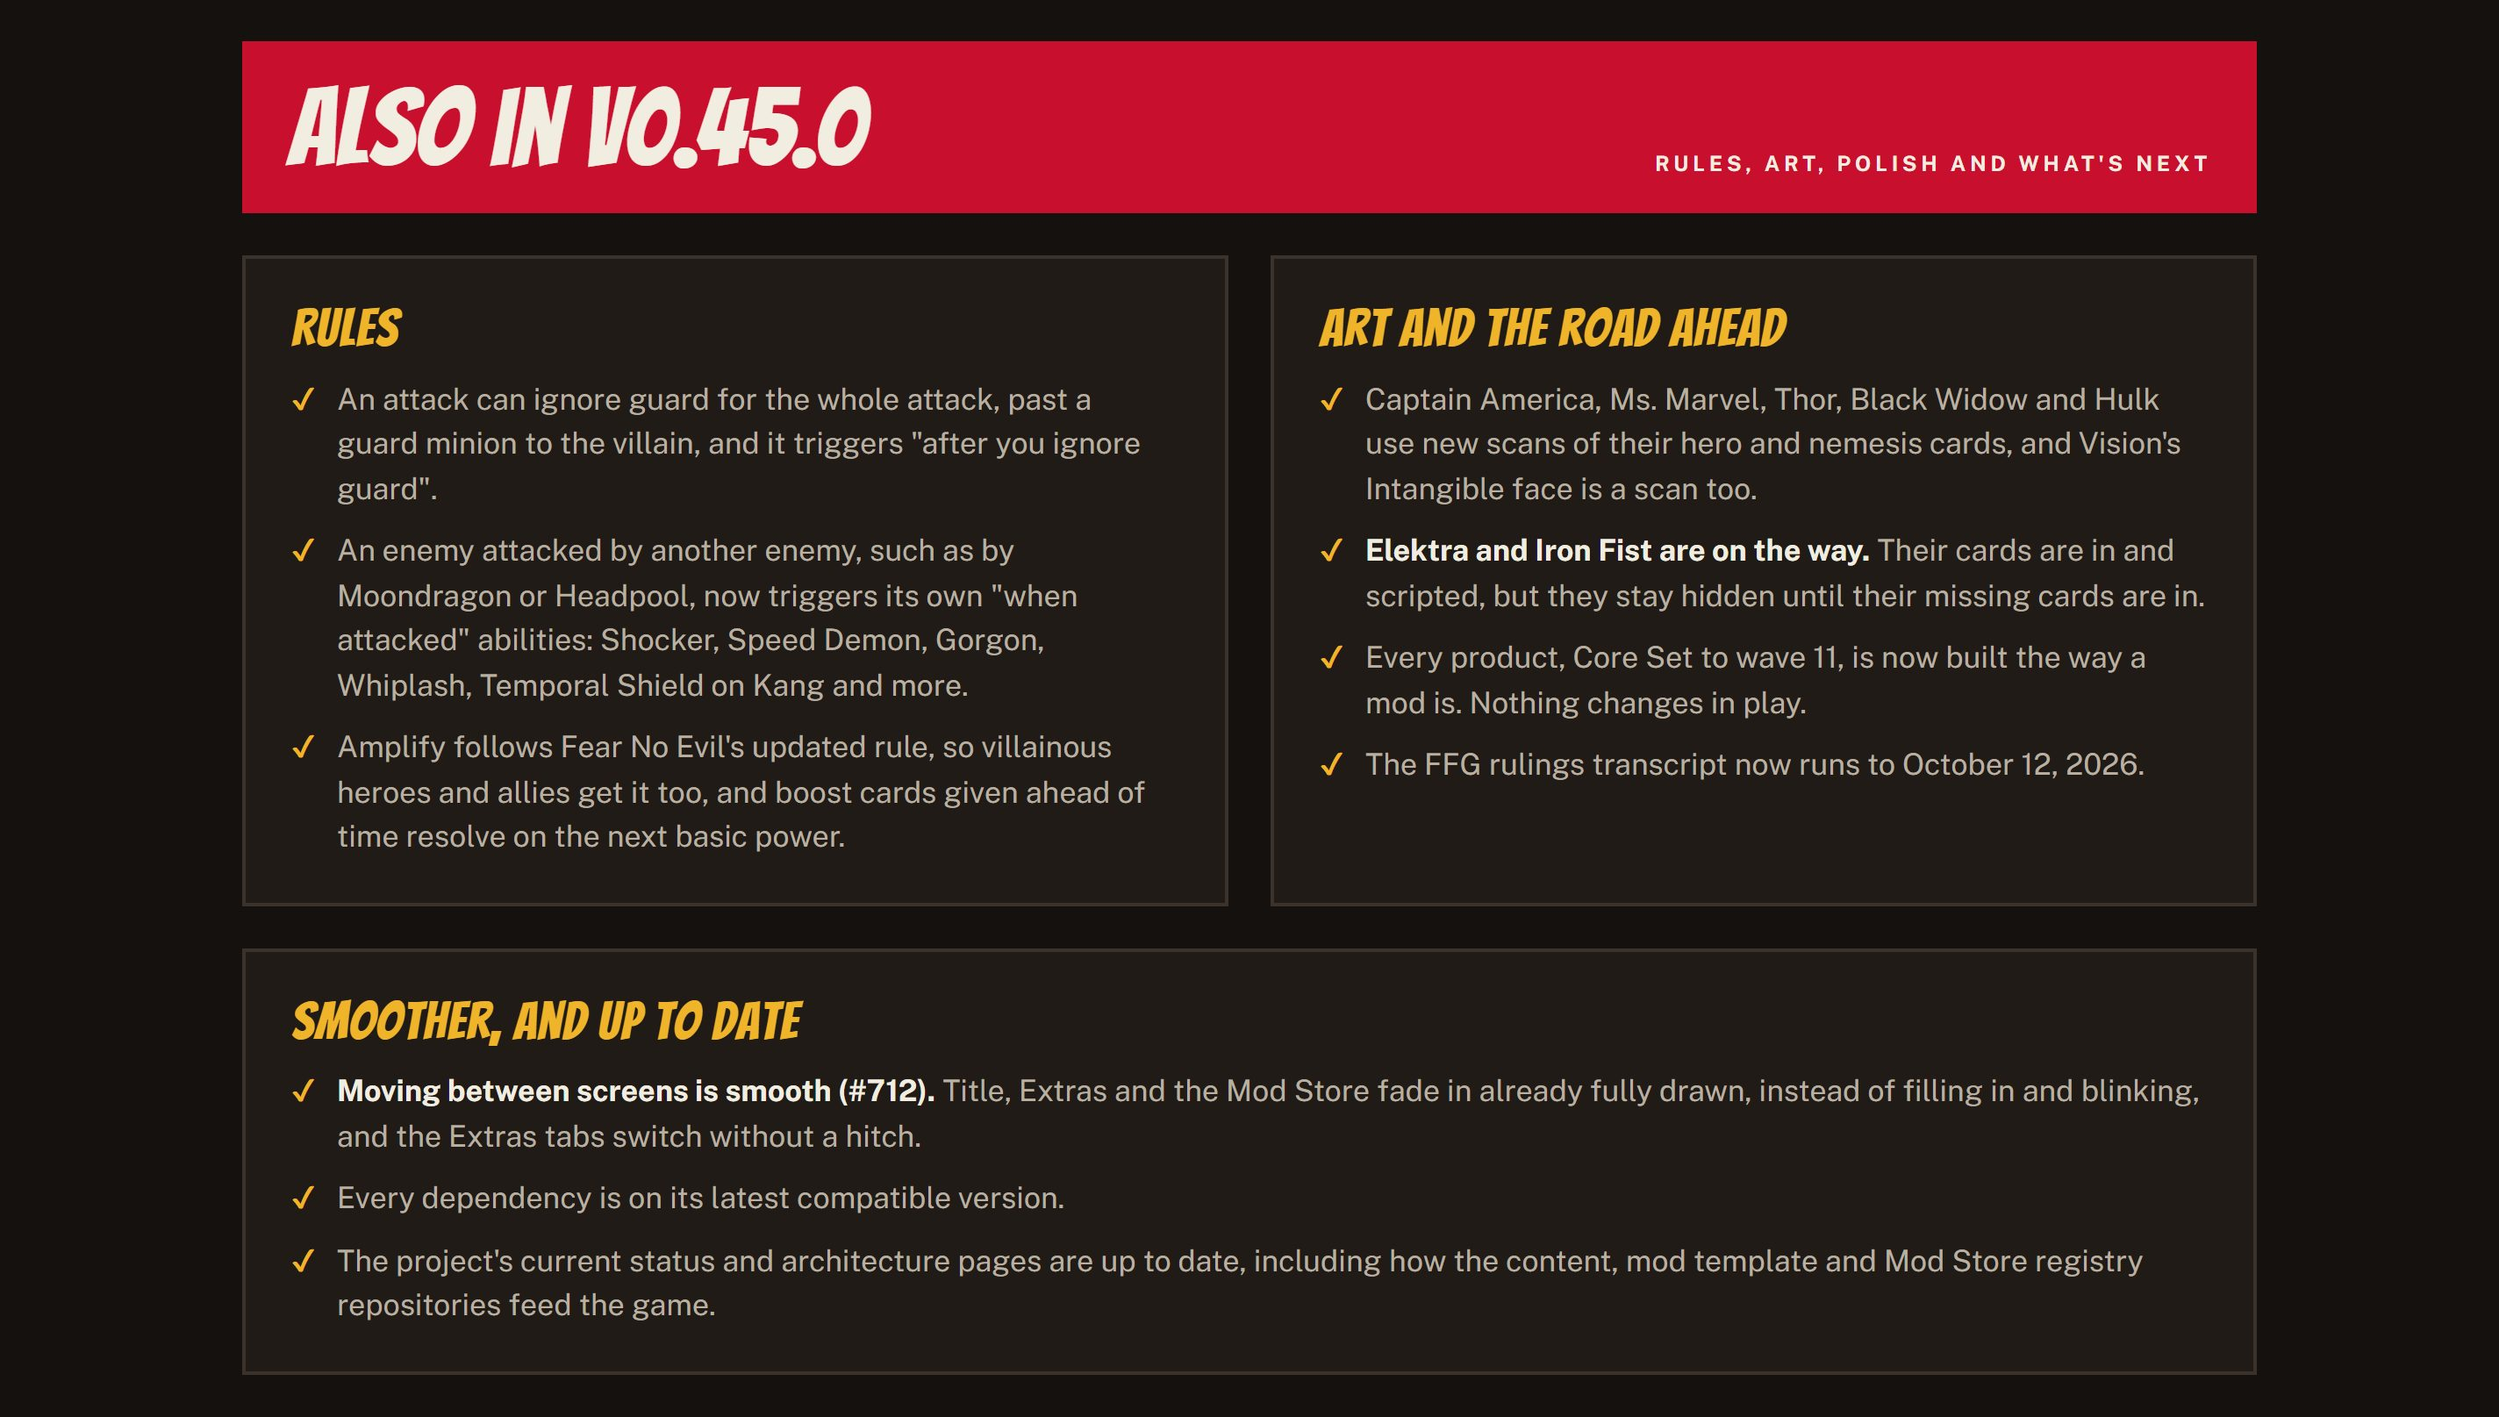
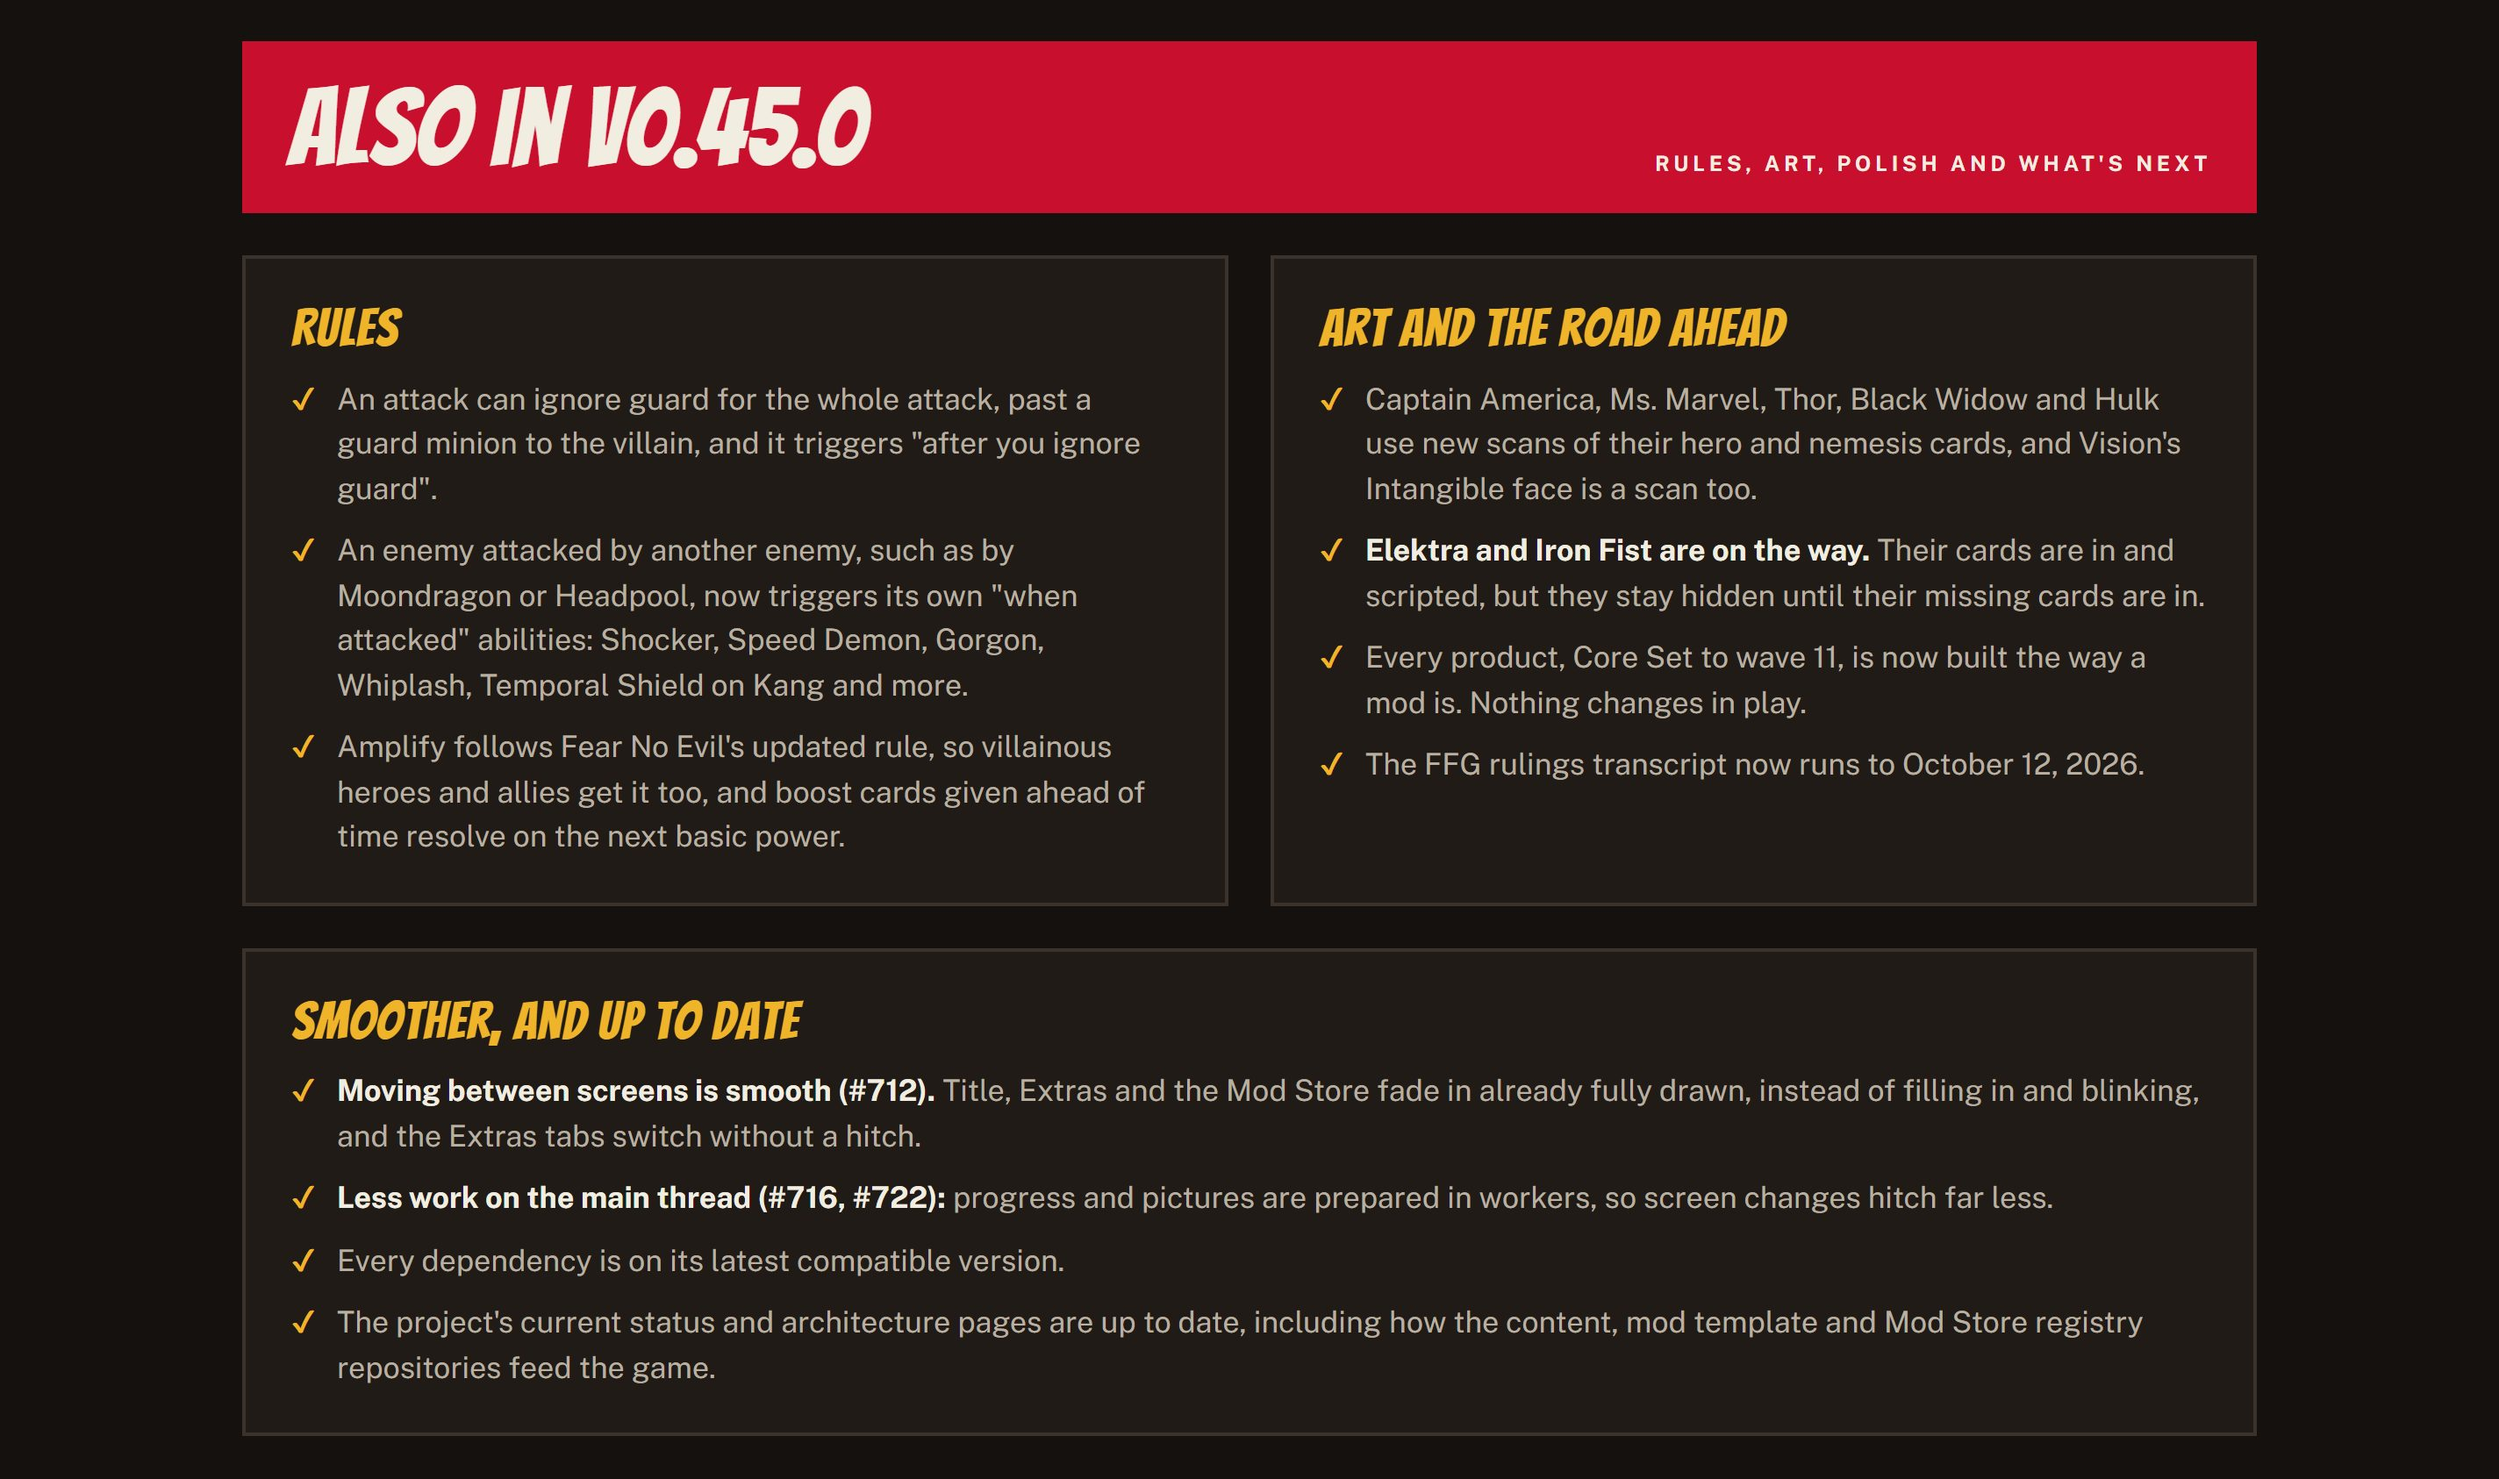
v0.45.0 report: less work on the main thread (#716, #722) in Smoother, and up to date

Changed region(s): [[0.0938, 0.0619, 0.9062, 0.9288]]

diff --git a/packages/client/public/releases/v0.45.0/index.html b/packages/client/public/releases/v0.45.0/index.html
@@ -1015,6 +1015,10 @@
             <b>Moving between screens is smooth (#712).</b> Title, Extras and the Mod Store fade in already fully drawn,
             instead of filling in and blinking, and the Extras tabs switch without a hitch.
           </li>
+          <li>
+            <b>Less work on the main thread (#716, #722):</b> progress and pictures are prepared in workers, so screen
+            changes hitch far less.
+          </li>
           <li>Every dependency is on its latest compatible version.</li>
           <li>
             The project's current status and architecture pages are up to date, including how the content, mod template
@@ -1082,7 +1086,7 @@
         </div>
         <div class="tile">
           <h4>Lines added</h4>
-          <div class="n c-green">96,405</div>
+          <div class="n c-green">96,410</div>
           <p>the Mod Store, the SDK, replays, the new site and their tests.</p>
         </div>
         <div class="tile">
